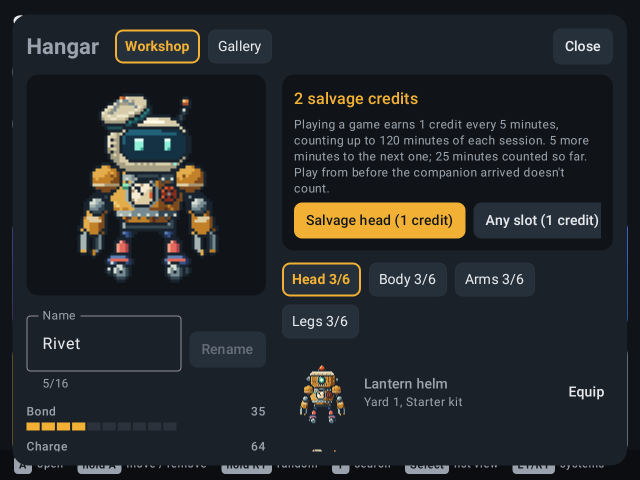
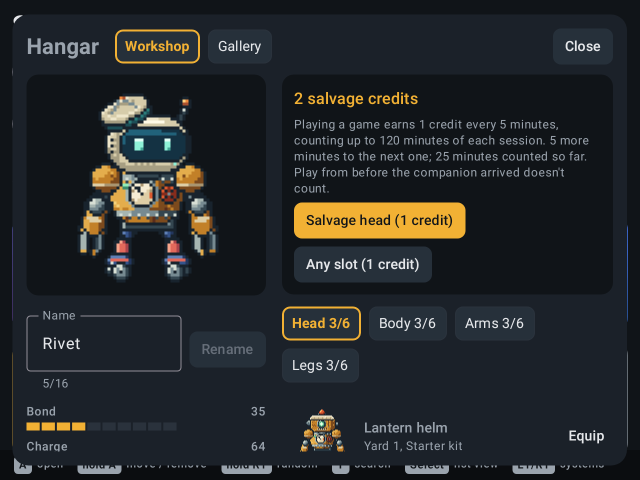
Compact layouts: tile titles never split a word; Hangar rows wrap
Grid tile titles shrink (to 75%) until their longest word fits, else stay on one ellipsized
line, instead of breaking mid-word ("PlayStatio / n" on the Thor's bottom screen). The
Hangar's salvage, care, family-set and Gallery family rows wrap (FlowRow) rather than
scrolling sideways out of view ("Any slot" clipped at 640 dp wide). Goldens re-recorded:
thor-bottom/home-custom-grid, rp-nova/hangar-workshop.

diff --git a/app/src/main/java/io/github/esko997/sortie/ui/Tiles.kt b/app/src/main/java/io/github/esko997/sortie/ui/Tiles.kt
@@ -52,11 +52,14 @@ import androidx.compose.ui.platform.LocalDensity
 import androidx.compose.ui.platform.LocalInputModeManager
 import androidx.compose.ui.semantics.contentDescription
 import androidx.compose.ui.semantics.semantics
+import androidx.compose.ui.text.TextStyle
 import androidx.compose.ui.text.font.FontWeight
+import androidx.compose.ui.text.rememberTextMeasurer
 import androidx.compose.ui.text.style.TextAlign
 import androidx.compose.ui.text.style.TextOverflow
 import androidx.compose.ui.unit.Density
 import androidx.compose.ui.unit.dp
+import androidx.compose.ui.unit.isSpecified
 import androidx.compose.ui.window.Dialog
 import io.github.esko997.sortie.data.manifest.GameAnnotation
 import io.github.esko997.sortie.data.manifest.UserData
@@ -131,13 +134,7 @@ fun SquareTile(
                         BoxWithConstraints(Modifier.weight(1f).fillMaxWidth(), contentAlignment = Alignment.Center) {
                             IconView(icon, minOf(64.dp, maxWidth, maxHeight).value.toInt())
                         }
-                        Text(
-                            title,
-                            style = MaterialTheme.typography.titleSmall,
-                            textAlign = TextAlign.Center,
-                            maxLines = 2,
-                            overflow = TextOverflow.Ellipsis
-                        )
+                        TileTitle(title, MaterialTheme.typography.titleSmall.copy(textAlign = TextAlign.Center))
                     }
                 }
             }
@@ -156,13 +153,7 @@ fun SquareTile(
             }
             Column(Modifier.align(Alignment.BottomStart).padding(10.dp)) {
                 if (logo == null) {
-                    Text(
-                        title,
-                        style = MaterialTheme.typography.titleMedium,
-                        fontWeight = FontWeight.SemiBold,
-                        maxLines = 2,
-                        overflow = TextOverflow.Ellipsis
-                    )
+                    TileTitle(title, MaterialTheme.typography.titleMedium.copy(fontWeight = FontWeight.SemiBold))
                 }
                 subtitle?.let {
                     Text(
@@ -237,6 +228,45 @@ class SheetAction(val label: String, val run: () -> Unit)
  * Small controller-first context menu (hold A / long press): a dialog with one row per action plus Cancel; the first action takes
  * focus, A picks, B or a tap outside cancels. The dialog closes before the action runs.
  */
+/**
+ * A tile title in at most two lines that wraps between words, never inside one: when the longest word is wider than the tile
+ * the text shrinks until it fits (to [MIN_TITLE_SCALE] of [style]); a word too long even then keeps the title on one line,
+ * ellipsized. Compose would otherwise split it ("PlayStatio / n") on narrow tiles.
+ */
+@Composable
+private fun TileTitle(title: String, style: TextStyle, modifier: Modifier = Modifier) {
+    BoxWithConstraints(modifier) {
+        val measurer = rememberTextMeasurer()
+        val width = constraints.maxWidth
+        val (fitted, fits) = remember(title, style, width) {
+            val words = title.split(' ').filter { it.isNotEmpty() }
+            fun scaled(scale: Float) = if (scale == 1f) {
+                style
+            } else {
+                style.copy(
+                    fontSize = style.fontSize * scale,
+                    lineHeight = if (style.lineHeight.isSpecified) style.lineHeight * scale else style.lineHeight
+                )
+            }
+            fun longest(s: TextStyle) = words.maxOfOrNull { measurer.measure(it, s, softWrap = false, maxLines = 1).size.width } ?: 0
+            // text does not scale exactly linearly (hinting), so step down and re-measure rather than trust one ratio
+            var scale = 1f
+            while (longest(scaled(scale)) > width && scale > MIN_TITLE_SCALE) scale = (scale - 0.05f).coerceAtLeast(MIN_TITLE_SCALE)
+            scaled(scale) to (longest(scaled(scale)) <= width)
+        }
+        Text(
+            title,
+            style = fitted,
+            maxLines = if (fits) 2 else 1,
+            softWrap = fits,
+            overflow = TextOverflow.Ellipsis,
+            modifier = Modifier.fillMaxWidth()
+        )
+    }
+}
+
+private const val MIN_TITLE_SCALE = 0.75f
+
 @Composable
 fun ContextSheet(title: String, actions: List<SheetAction>, onDismiss: () -> Unit) {
     val first = remember { FocusRequester() }

diff --git a/mecha/src/main/java/io/github/esko997/sortie/mecha/ui/Hangar.kt b/mecha/src/main/java/io/github/esko997/sortie/mecha/ui/Hangar.kt
@@ -1,7 +1,6 @@
 package io.github.esko997.sortie.mecha.ui
 
 import androidx.compose.foundation.background
-import androidx.compose.foundation.horizontalScroll
 import androidx.compose.foundation.layout.Arrangement
 import androidx.compose.foundation.layout.Box
 import androidx.compose.foundation.layout.BoxWithConstraints
@@ -271,6 +270,7 @@ private fun Rename(store: MechaStore, state: MechaState) {
     }
 }
 
+@OptIn(ExperimentalLayoutApi::class)
 @Composable
 private fun Care(store: MechaStore, state: MechaState) {
     Column(verticalArrangement = Arrangement.spacedBy(8.dp)) {
@@ -282,7 +282,8 @@ private fun Care(store: MechaStore, state: MechaState) {
             style = MaterialTheme.typography.bodySmall,
             color = Muted
         )
-        Row(horizontalArrangement = Arrangement.spacedBy(8.dp)) {
+        // wraps rather than clipping on narrow screens (the Hangar's left column is ~250dp on a 640dp-wide display)
+        FlowRow(horizontalArrangement = Arrangement.spacedBy(8.dp), verticalArrangement = Arrangement.spacedBy(8.dp)) {
             MechaButton("Tune up", onClick = { store.care(MechaCare.TUNE) }, enabled = !state.sleeping)
             MechaButton("Charge", onClick = { store.care(MechaCare.CHARGE) }, enabled = !state.sleeping)
             MechaButton(if (state.sleeping) "Wake up" else "Rest", onClick = { store.care(MechaCare.REST) })
@@ -393,6 +394,7 @@ private fun Parts(store: MechaStore, view: MechaView, state: MechaState) {
     FamilySets(store, view, state)
 }
 
+@OptIn(ExperimentalLayoutApi::class)
 @Composable
 private fun Salvage(store: MechaStore, state: MechaState, slot: MechaSlot, leftHere: Int, leftAll: Int) {
     Column(
@@ -412,7 +414,7 @@ private fun Salvage(store: MechaStore, state: MechaState, slot: MechaSlot, leftH
             style = MaterialTheme.typography.bodySmall,
             color = Muted
         )
-        Row(horizontalArrangement = Arrangement.spacedBy(8.dp), modifier = Modifier.horizontalScroll(rememberScrollState())) {
+        FlowRow(horizontalArrangement = Arrangement.spacedBy(8.dp), verticalArrangement = Arrangement.spacedBy(8.dp)) {
             MechaButton(
                 "Salvage ${slot.label().lowercase()} (1 credit)",
                 onClick = { store.salvage(slot) },
@@ -430,11 +432,12 @@ private fun Salvage(store: MechaStore, state: MechaState, slot: MechaSlot, leftH
 }
 
 /** Each family's parts that are already in the hangar, as one outfit: wearing a set is four ordinary equips. */
+@OptIn(ExperimentalLayoutApi::class)
 @Composable
 private fun FamilySets(store: MechaStore, view: MechaView, state: MechaState) {
     Text("Family sets", style = MaterialTheme.typography.titleSmall, fontWeight = FontWeight.SemiBold, modifier = Modifier.padding(top = 4.dp))
     Text("Built from parts you own. Mixing families slot by slot works too.", style = MaterialTheme.typography.bodySmall, color = Muted)
-    Row(horizontalArrangement = Arrangement.spacedBy(8.dp), modifier = Modifier.horizontalScroll(rememberScrollState())) {
+    FlowRow(horizontalArrangement = Arrangement.spacedBy(8.dp), verticalArrangement = Arrangement.spacedBy(8.dp)) {
         MECHA_FAMILIES.forEach { family ->
             val set = remember(view.parts, state.owned, family) { ownedSet(view.parts, state, family) }
             val wearing = set != null && set.all { (s, id) -> state.equipped[s] == id }
@@ -549,7 +552,7 @@ private fun ColumnScope.FamilyGrid(view: MechaView, state: MechaState, pose: Mec
         MechaPose.entries.forEach { p -> MechaChip(p.label(), p == pose, { onPose(p) }) }
     }
     MECHA_FAMILIES.forEach { family ->
-        Row(horizontalArrangement = Arrangement.spacedBy(8.dp), modifier = Modifier.horizontalScroll(rememberScrollState())) {
+        FlowRow(horizontalArrangement = Arrangement.spacedBy(8.dp), verticalArrangement = Arrangement.spacedBy(8.dp)) {
             listOf(1, 2).forEach { variant ->
                 val pieces = view.parts.filter { it.family == family && it.variant == variant }
                 val set = pieces.associate { it.slot to it.id }

diff --git a/CHANGELOG.md b/CHANGELOG.md
@@ -1,6 +1,9 @@
 # Changelog
 
 ## Unreleased
+- Narrow screens: grid tile titles no longer split a word across lines ("PlayStatio / n" on the Thor's bottom screen);
+  a word wider than the tile shrinks the title slightly instead. The Hangar's salvage, care, family-set and Gallery rows wrap
+  instead of running off the edge ("Any slot" was cut off on 640 dp-wide screens such as the Retroid Pocket Nova).
 - Hangar companion size and reach: he is now about a centimetre tall on every screen (2× on the Thor and DMG, from the
   display's real dpi), only stops where at least 40 dp of him shows clear of controls so he can always be tapped, and
   falls back to a reserved home base (end of Home's hint bar; under the bell on the other screen) or hides.
